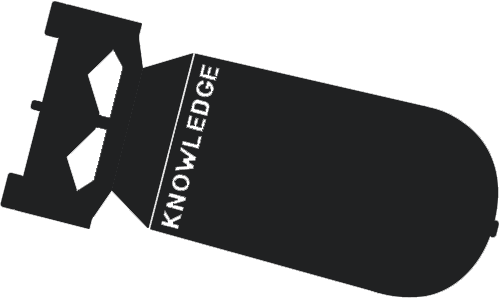
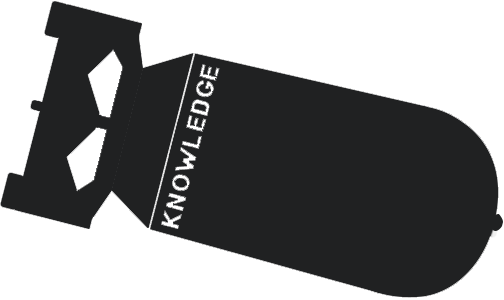
Fines tunes bomb_icon and its placement

diff --git a/views/application.sass b/views/application.sass
@@ -134,7 +134,7 @@ p
   margin-top: -63px
 
 .bomb_icon
-  +transform(rotate(76deg))
+  +transform(rotate(75.6deg))
   opacity: .97
   display: block
   margin-left: auto
